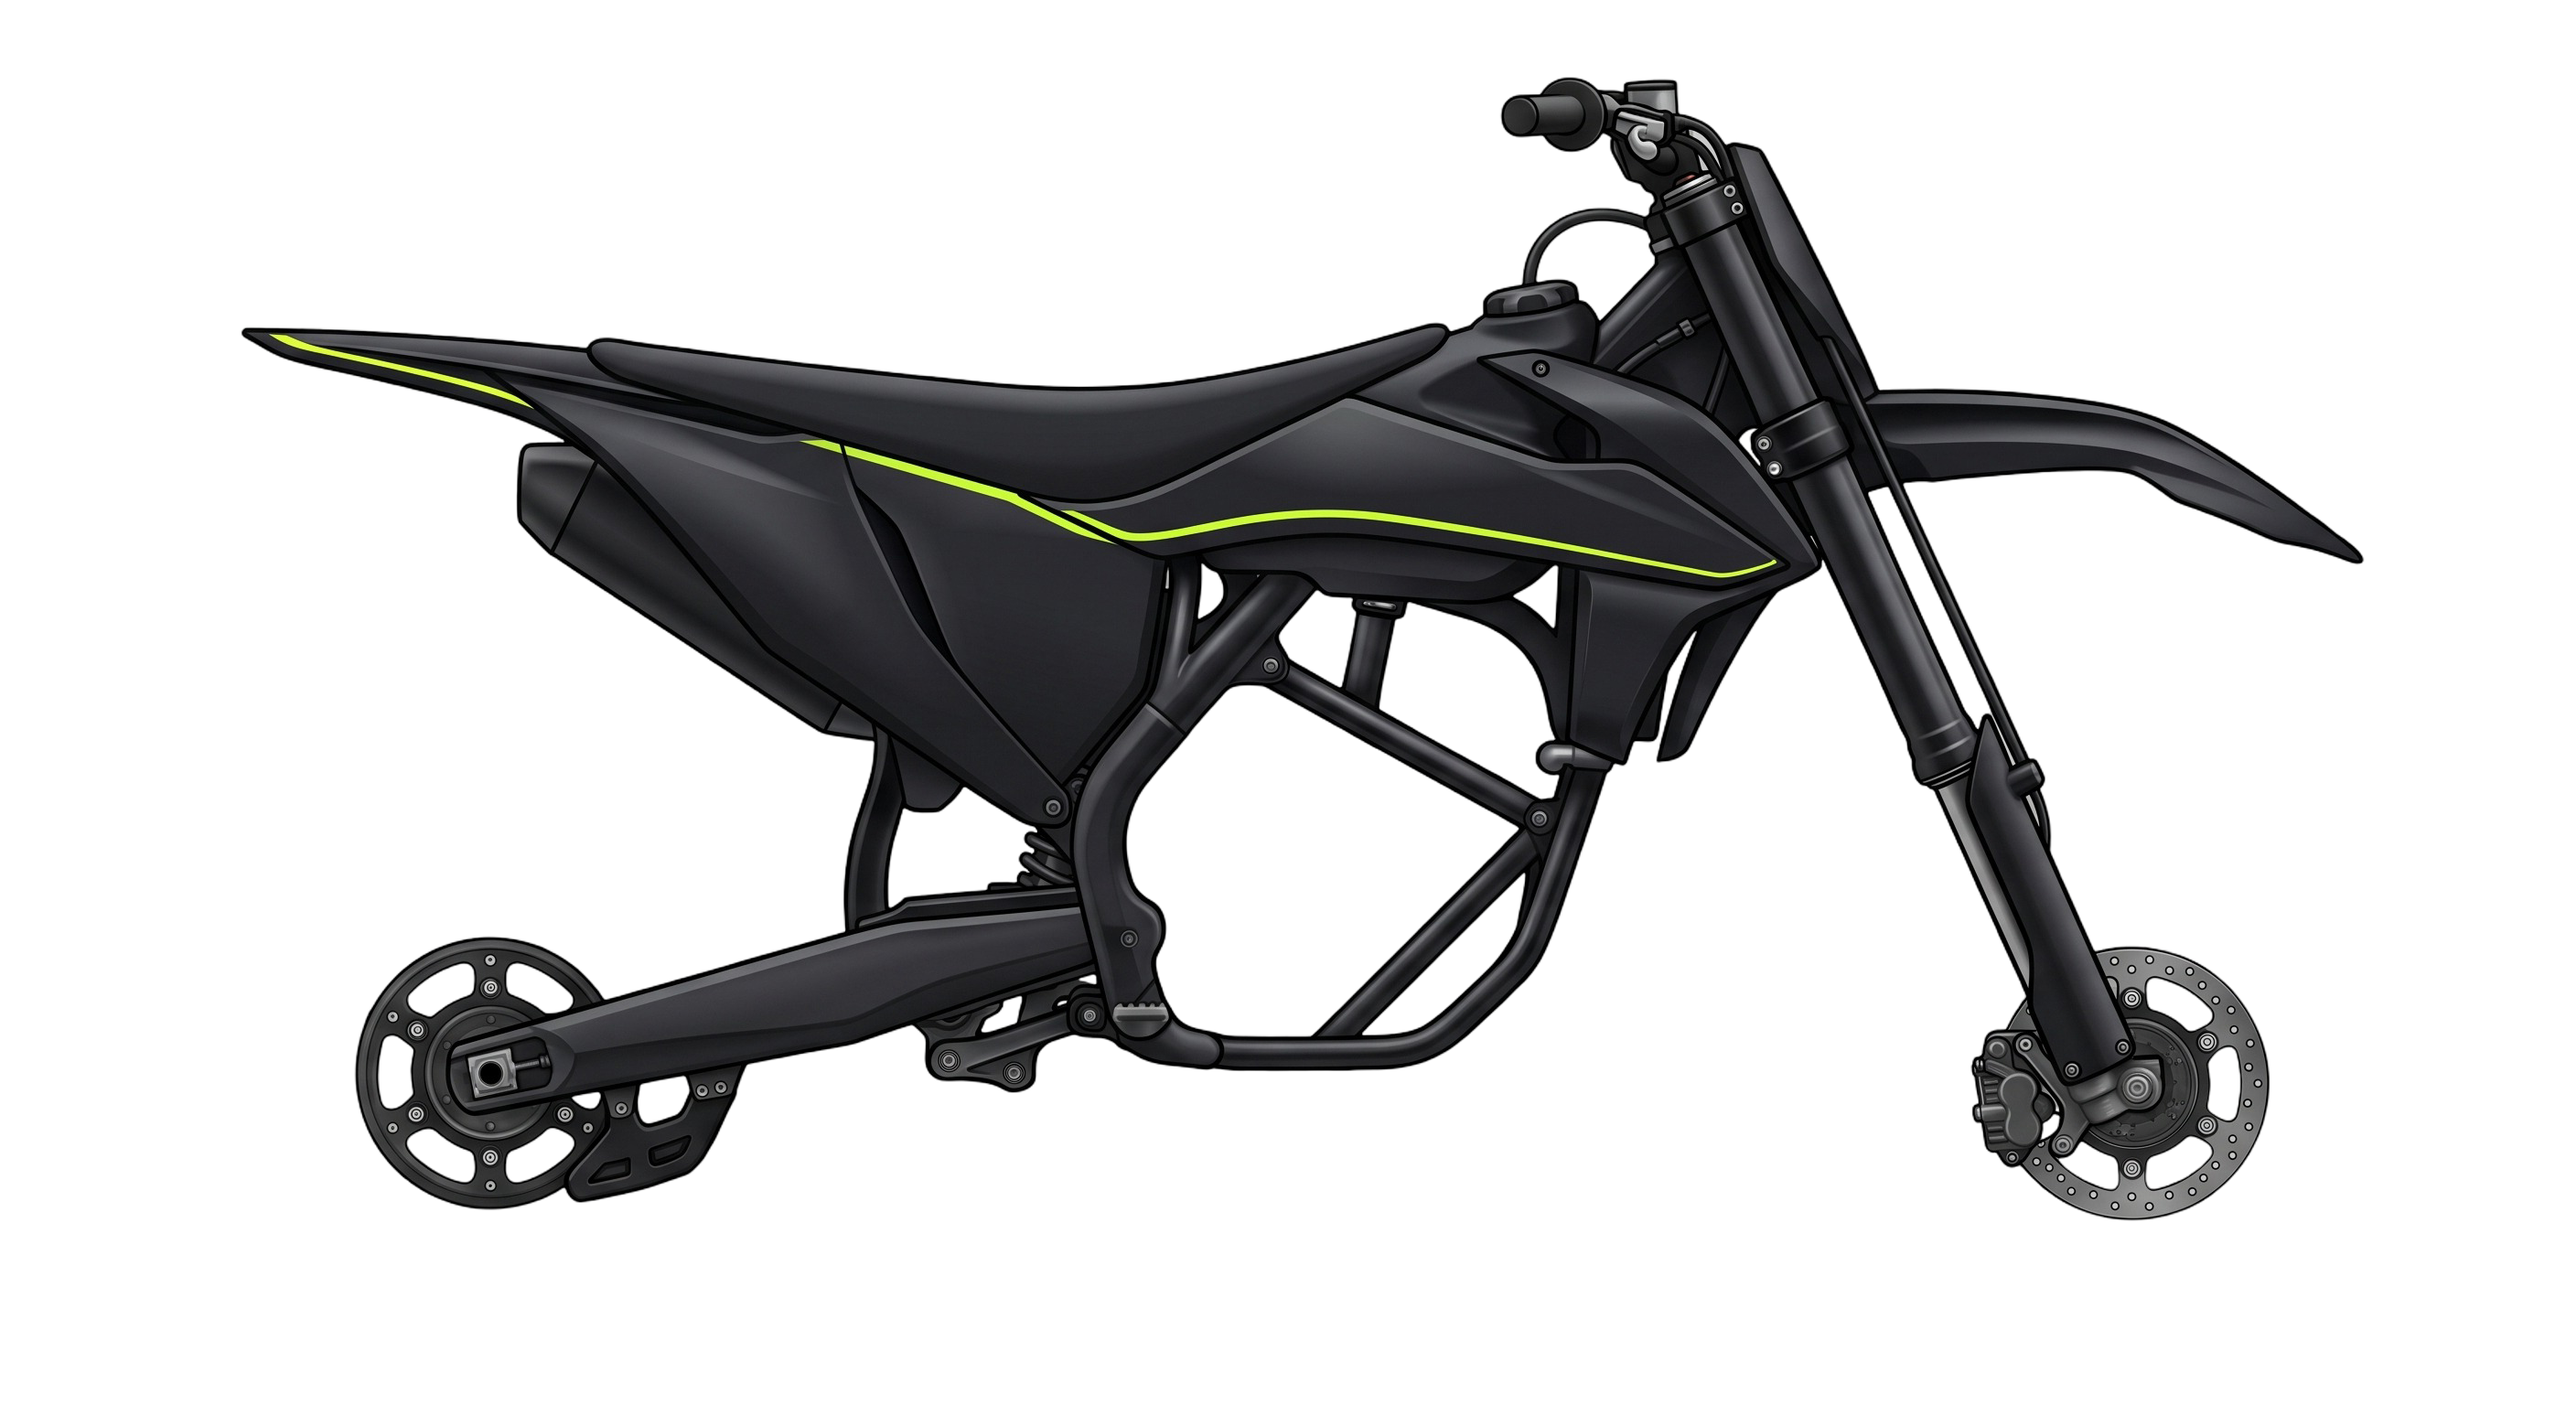
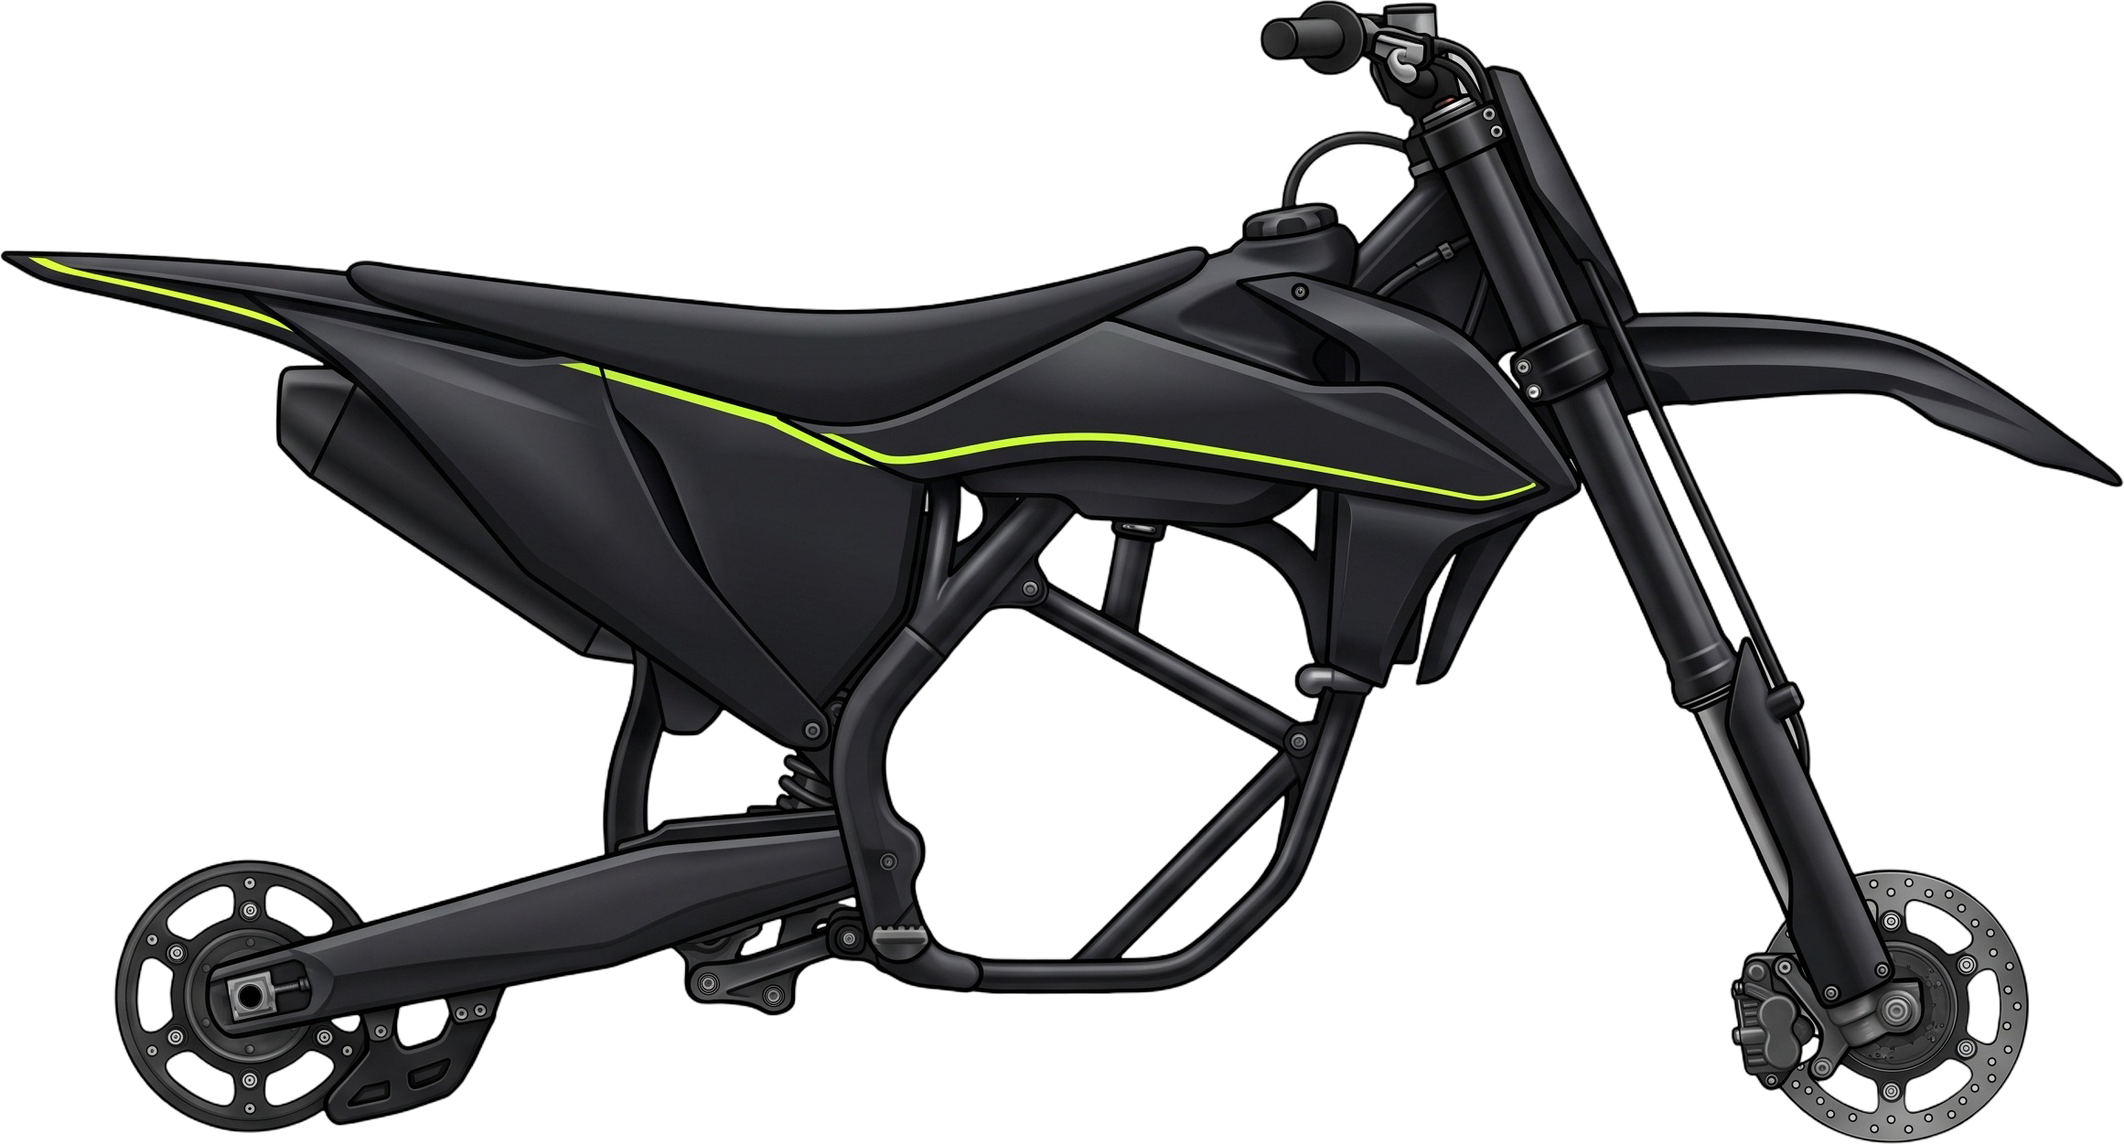
Phase 1: Auto-cropped transparent padding from all game PNG assets

Changed region(s): [[0.0, 0.0, 1.0, 1.0]]

diff --git a/src/game/bike/BikeRenderer.ts b/src/game/bike/BikeRenderer.ts
@@ -5,22 +5,22 @@ import GUI from 'lil-gui';
 
 const P = PALETTE;
 
-// Perfected scales based on physics wheelbase (112px) vs HD asset widths (2800px)
+// Tightly trimmed HD asset defaults (Zero extra transparent padding)
 export const LIVE_SPRITE = { 
   ...SPRITE, 
-  bikeScale: 0.052, 
-  bikeOriginX: 0.48, 
-  bikeOriginY: 0.62,
-  wheelScale: 0.02,
-  riderScale: 0.062,
-  ragdollScale: 0.062,
+  bikeScale: 0.10, 
+  bikeOriginX: 0.5, 
+  bikeOriginY: 0.55,
+  wheelScale: 0.038,
+  riderScale: 0.082,
+  ragdollScale: 0.082,
   riderOriginY: 0.85,
-  riderAngleOffset: 12,
-  seatLocalX: 6,
-  seatLocalY: 0
+  riderAngleOffset: 10,
+  seatLocalX: 5,
+  seatLocalY: -10,
+  flagScale: 0.045
 };
 
-// We will only create the GUI once
 let gui: GUI | null = null;
 
 export class BikeRenderer {
@@ -59,6 +59,13 @@ export class BikeRenderer {
       });
 
       const f = gui.addFolder('Sprites');
+      f.add(LIVE_SPRITE, 'flagScale', 0.01, 0.2, 0.001).onChange((v: number) => {
+        scene.children.list.forEach((child) => {
+          if (child instanceof Phaser.GameObjects.Image && child.texture.key === 'flag') {
+            child.setScale(v);
+          }
+        });
+      });
       f.add(LIVE_SPRITE, 'bikeScale', 0.01, 1.0, 0.001).onChange((v: number) => {
         this.bikeSprite.setScale(v);
       });

diff --git a/src/game/constants.ts b/src/game/constants.ts
@@ -120,7 +120,7 @@ export const SPRITE = {
   seatLocalX: -5,
   seatLocalY: -18,
   riderOriginY: 0.7,
-  flagScale: 0.12,
+  flagScale: 0.045,
   riderScale: 1.0,
   ragdollScale: 1.0, // 128px tall texture -> 64px world
 } as const;
